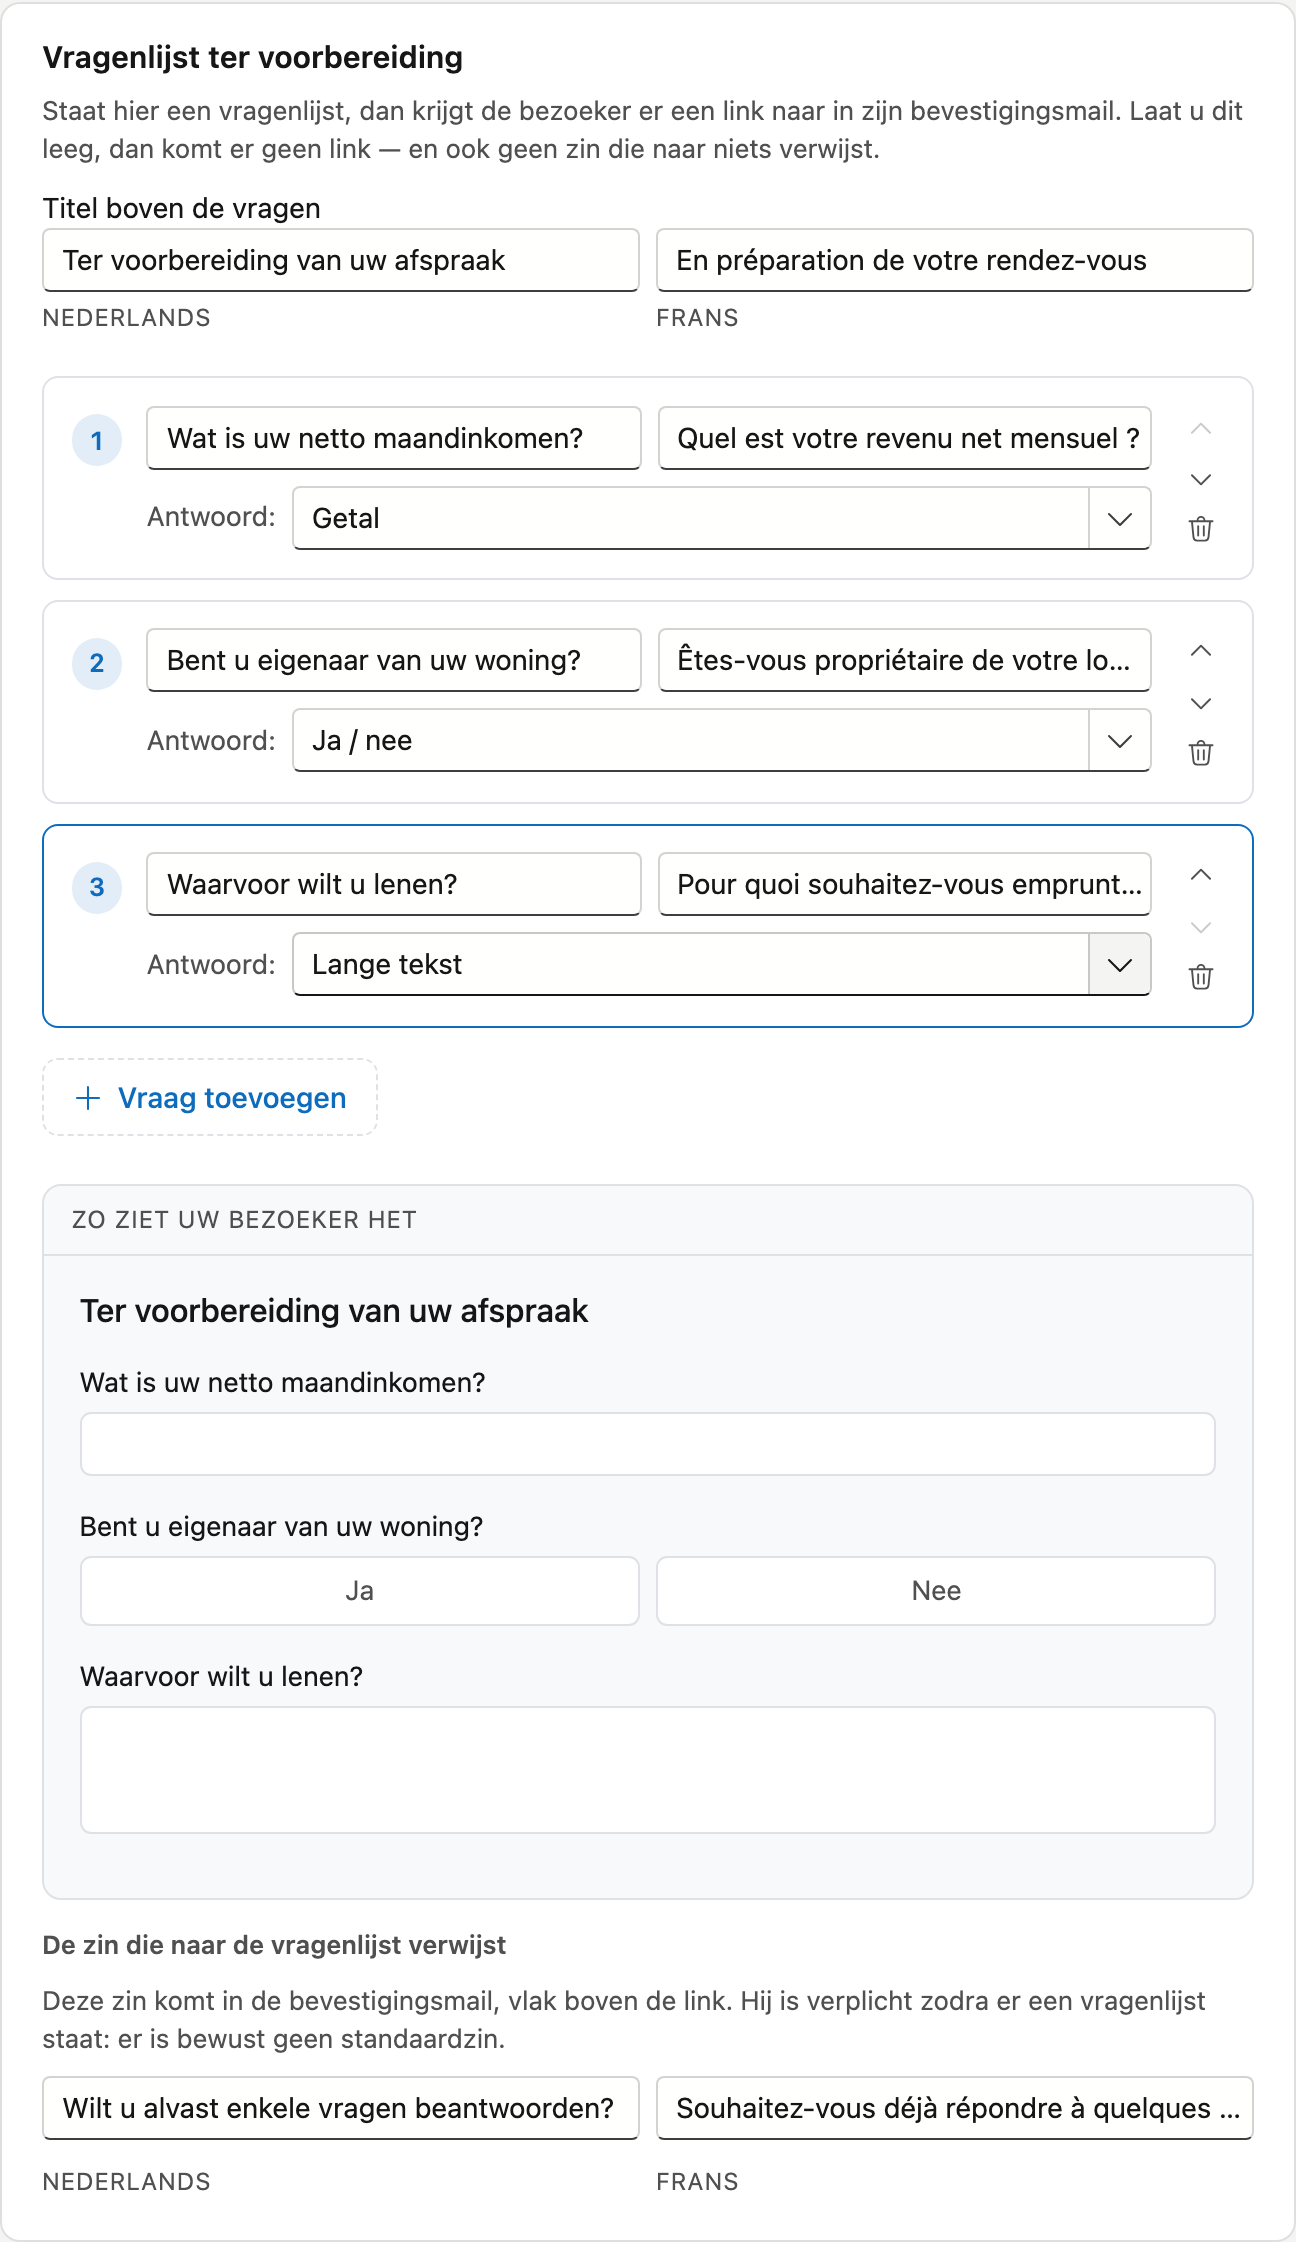
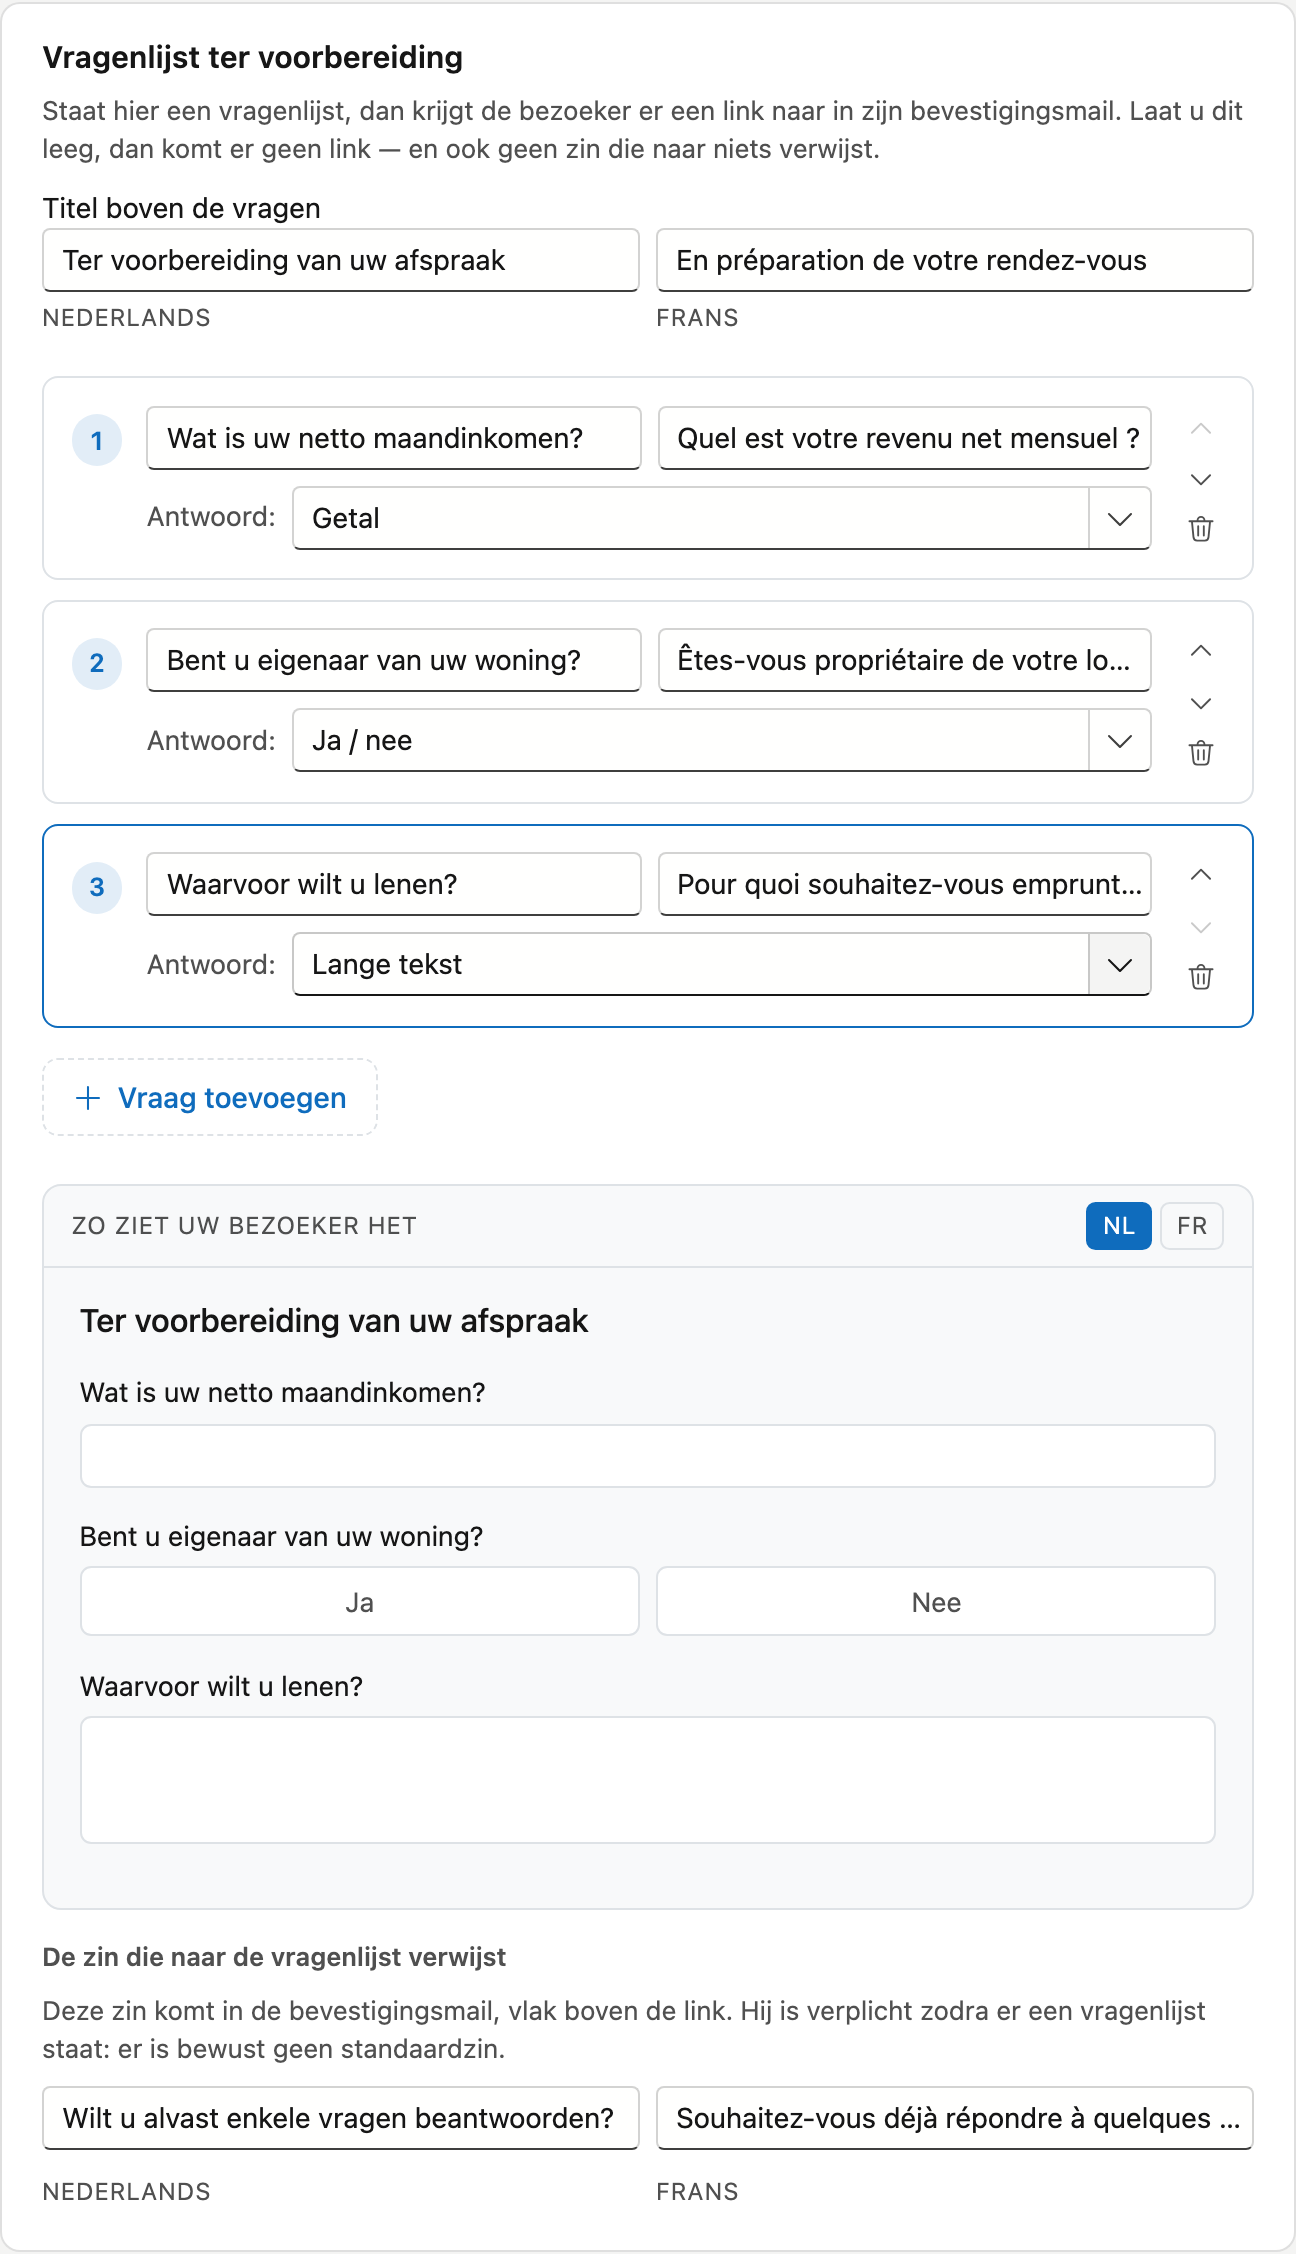
Vragenlijstbeelden op AppKit 0.421.3: het voorbeeld met NL/FR-schakelaar
Hernomen op adm-creditsoft 2319025d (schone werkmap), twee keer geschoten en byte-identiek.
Het FR-beeld toont nu ook het voorbeeld in het Frans (het opent in de taal van de beheerder).
Tekst en alt-teksten NL/FR beschrijven de knoppen NL en FR.

⚠ Pushen pas NA adm-creditsoft 1.138.3.

diff --git a/docs/beheer/kantoorprofiel.fr.md b/docs/beheer/kantoorprofiel.fr.md
@@ -28,7 +28,7 @@ Vous composez ici les questions auxquelles un visiteur répond **avant** son ren
 questionnaire, il en reçoit le lien dans son e-mail de confirmation. Si vous laissez vide, il n'y a pas de lien —
 ni de phrase qui renvoie vers rien.
 
-![Composer le questionnaire : en haut le titre en néerlandais et en français, en dessous trois questions numérotées avec leur texte dans les deux langues et le type de réponse, avec des flèches et une corbeille à côté, et le bouton Ajouter une question. En dessous l'aperçu Ce que verra votre visiteur, avec un champ de saisie, les boutons Oui et Non et une grande zone de texte, et en bas la phrase qui renvoie au questionnaire, dans les deux langues.](../images/kantoorprofiel-vragenlijst-fr.png "Composer le questionnaire, avec l'aperçu"){ .eigen-breedte style="width:560px" }
+![Composer le questionnaire : en haut le titre en néerlandais et en français, en dessous trois questions numérotées avec leur texte dans les deux langues et le type de réponse, avec des flèches et une corbeille à côté, et le bouton Ajouter une question. En dessous l'aperçu Ce que verra votre visiteur, avec les boutons NL et FR, un champ de saisie, les boutons Oui et Non et une grande zone de texte, et en bas la phrase qui renvoie au questionnaire, dans les deux langues.](../images/kantoorprofiel-vragenlijst-fr.png "Composer le questionnaire, avec l'aperçu"){ .eigen-breedte style="width:560px" }
 
 Pour chaque question, vous saisissez le texte en **néerlandais et en français**, et choisissez le type de réponse
 attendu :
@@ -42,7 +42,8 @@ attendu :
 
 Les **flèches** modifient l'ordre, la **corbeille** supprime une question. Dans l'aperçu *Ce que verra votre
 visiteur*, vous voyez immédiatement ce que reçoit le visiteur — inutile d'attendre que quelqu'un ouvre réellement
-la page.
+la page. Avec **NL** et **FR** en haut de l'aperçu, vous passez de la version néerlandaise à la version
+française ; l'aperçu s'ouvre dans la langue dans laquelle vous utilisez CreditSoft.
 
 ### La phrase dans l'e-mail de confirmation
 

diff --git a/docs/beheer/kantoorprofiel.md b/docs/beheer/kantoorprofiel.md
@@ -28,7 +28,7 @@ Hier stelt u de vragen samen die een bezoeker beantwoordt **vóór** zijn afspra
 krijgt hij er een link naar in zijn bevestigingsmail. Laat u het leeg, dan komt er geen link — en ook geen zin
 die naar niets verwijst.
 
-![De vragenlijst samenstellen: bovenaan de titel in het Nederlands en het Frans, daaronder drie genummerde vragen met hun tekst in beide talen en het soort antwoord — Getal, Ja / nee en Lange tekst — met pijltjes en een prullenbak ernaast, en de knop Vraag toevoegen. Daaronder het voorbeeld Zo ziet uw bezoeker het, met een invulveld, de knoppen Ja en Nee en een groot tekstvak, en onderaan de zin die naar de vragenlijst verwijst, in beide talen.](../images/kantoorprofiel-vragenlijst.png "De vragenlijst samenstellen, met het voorbeeld erbij"){ .eigen-breedte style="width:560px" }
+![De vragenlijst samenstellen: bovenaan de titel in het Nederlands en het Frans, daaronder drie genummerde vragen met hun tekst in beide talen en het soort antwoord — Getal, Ja / nee en Lange tekst — met pijltjes en een prullenbak ernaast, en de knop Vraag toevoegen. Daaronder het voorbeeld Zo ziet uw bezoeker het, met de knoppen NL en FR, een invulveld, de knoppen Ja en Nee en een groot tekstvak, en onderaan de zin die naar de vragenlijst verwijst, in beide talen.](../images/kantoorprofiel-vragenlijst.png "De vragenlijst samenstellen, met het voorbeeld erbij"){ .eigen-breedte style="width:560px" }
 
 Per vraag vult u de tekst in het **Nederlands en het Frans** in, en kiest u wat voor antwoord u verwacht:
 
@@ -41,6 +41,8 @@ Per vraag vult u de tekst in het **Nederlands en het Frans** in, en kiest u wat 
 
 Met de **pijltjes** verzet u de volgorde, met de **prullenbak** haalt u een vraag weg. In het voorbeeld *Zo ziet
 uw bezoeker het* ziet u meteen wat de bezoeker krijgt — u hoeft niet te wachten tot iemand de pagina echt opent.
+Met **NL** en **FR** bovenaan het voorbeeld wisselt u tussen de Nederlandse en de Franse versie; het voorbeeld
+opent in de taal waarin u CreditSoft gebruikt.
 
 ### De zin in de bevestigingsmail
 
